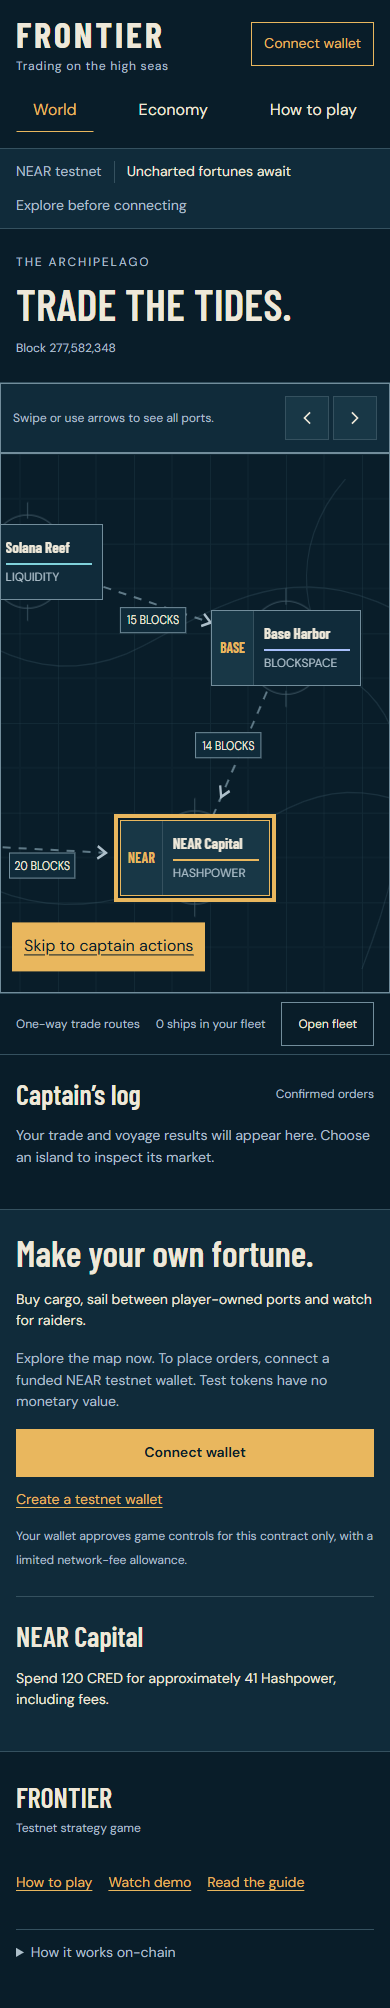
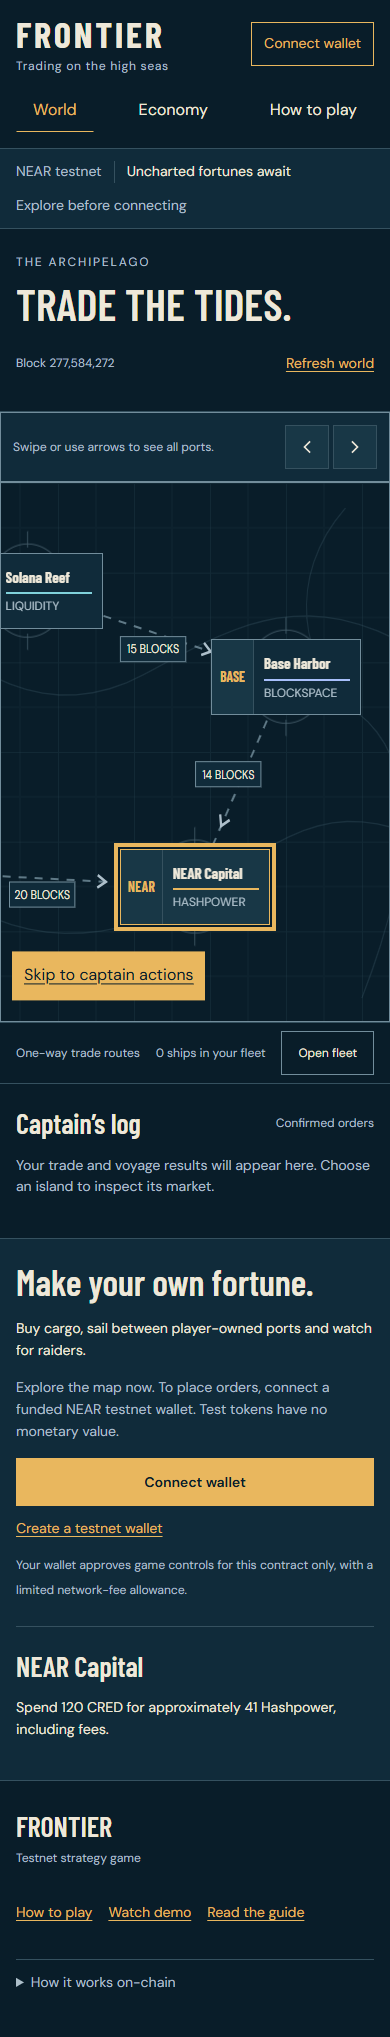
fix(ui): back off testnet polling and cache world reads

diff --git a/apps/game/app/use-game.ts b/apps/game/app/use-game.ts
@@ -3,6 +3,7 @@
 import { useCallback, useEffect, useRef, useState } from "react";
 import type { NearConnector } from "@hot-labs/near-connect";
 import { readRpc, view } from "./read-rpc";
+import { createReadCache, pollDelay } from "./read-cache";
 export { view } from "./read-rpc";
 import { arrivalMessage, WORLD, RPC, type Port, type Route, type Ship, type Player, type Order, type GameEvent, type EconomySnapshot } from "./game-state";
 
@@ -35,12 +36,16 @@ export function useGame() {
   const connectIntent = useRef(false);
   const lock = useRef(false);
   const ordersRef = useRef<Order[]>([]);
+  const reads = useRef(createReadCache());
   const slot = `frontier-orders:${WORLD}:${accountId ?? "guest"}`;
   const notify = useCallback((text: string, tone: GameEvent["tone"] = "normal", tx?: string) => {
     setMessage(text);
     setEvents(items => [{ id: crypto.randomUUID(), text, tone, tx, time: new Date().toLocaleTimeString([], { hour: "2-digit", minute: "2-digit" }) }, ...items].slice(0, 20));
   }, []);
-  const retry = useCallback(() => setRefresh(n => n + 1), []);
+  const retry = useCallback(() => {
+    reads.current.invalidate("ports"); reads.current.invalidate("economy");
+    setRefresh(n => n + 1);
+  }, []);
   const saveOrders = useCallback((next: Order[]) => {
     // Persist BEFORE signing. If storage is full or blocked, do not sail.
     localStorage.setItem(slot, JSON.stringify(next));
@@ -52,12 +57,23 @@ export function useGame() {
     let active = true;
     setReadState("loading");
     let timer: ReturnType<typeof setTimeout>;
+    let failures = 0;
+    async function portsRead() {
+      const result: Array<Port | null> = [];
+      for (const id of [1, 2, 3, 4, 5]) result.push(await view<Port | null>("get_port", { port_id: id }));
+      return result;
+    }
+    async function routesRead() {
+      const result: Array<Route | null> = [];
+      for (const id of [1, 2, 3, 4, 5]) result.push(await view<Route | null>("get_route", { route_id: id }));
+      return result;
+    }
     const poll = async () => {
       try {
         const [portList, routeList, nextEconomy, block, nextPlayer, nextShips] = await Promise.all([
-          Promise.all([1, 2, 3, 4, 5].map(id => view<Port | null>("get_port", { port_id: id }))),
-          Promise.all([1, 2, 3, 4, 5].map(id => view<Route | null>("get_route", { route_id: id }))),
-          view<EconomySnapshot>("economy_dashboard"), readRpc<{ header: { height: number } }>("block", { finality: "final" }),
+          reads.current.get("ports", 30000, portsRead),
+          reads.current.get("routes", Infinity, routesRead),
+          reads.current.get("economy", 30000, () => view<EconomySnapshot>("economy_dashboard")), readRpc<{ header: { height: number } }>("block", { finality: "final" }),
           accountId ? view<Player | null>("get_player", { account_id: accountId }) : Promise.resolve(null),
           accountId ? view<Array<[number, Ship]>>("ships_for_owner", { account_id: accountId }) : Promise.resolve([]),
         ]);
@@ -66,9 +82,10 @@ export function useGame() {
         setRoutes(routeList.filter((route): route is Route => route !== null));
         setEconomy(nextEconomy); setHeight(block.header.height); setPlayer(nextPlayer); setShips(nextShips);
         setReadState("ready");
+        failures = 0;
         setSnapshots(items => [...items.filter(item => item.epoch !== nextEconomy.epoch), nextEconomy].slice(-20));
-      } catch { if (active) setReadState("error"); }
-      if (active) timer = setTimeout(poll, 3000);
+      } catch { failures++; if (active) setReadState("error"); }
+      if (active) timer = setTimeout(poll, pollDelay(failures));
     };
     void poll();
     return () => { active = false; clearTimeout(timer); };

diff --git a/apps/game/app/read-cache.test.ts b/apps/game/app/read-cache.test.ts
@@ -1,0 +1,25 @@
+import { expect, it, vi } from "vitest";
+import { createReadCache, pollDelay } from "./read-cache";
+
+it("reuses world reads during polling but refreshes them after expiry or an action", async () => {
+  const cache = createReadCache();
+  const load = vi.fn(async () => 42);
+  await cache.get("ports", 30000, load, 1000);
+  await cache.get("ports", 30000, load, 7000);
+  expect(load).toHaveBeenCalledTimes(1);
+  await cache.get("ports", 30000, load, 31001);
+  expect(load).toHaveBeenCalledTimes(2);
+  cache.invalidate("ports");
+  await cache.get("ports", 30000, load, 31002);
+  expect(load).toHaveBeenCalledTimes(3);
+});
+it("does not cache a failed read and coalesces concurrent refreshes", async () => {
+  const cache = createReadCache();
+  const load = vi.fn().mockRejectedValueOnce(new Error("429")).mockResolvedValue(7);
+  await expect(cache.get("routes", Infinity, load)).rejects.toThrow("429");
+  expect(await Promise.all([cache.get("routes", Infinity, load), cache.get("routes", Infinity, load)])).toEqual([7, 7]);
+  expect(load).toHaveBeenCalledTimes(2);
+});
+it("backs off sustained failures and returns to six-second polling after recovery", () => {
+  expect([0,1,2,3,4,5].map(pollDelay)).toEqual([6000,12000,24000,30000,30000,30000]);
+});

diff --git a/apps/game/app/read-cache.ts b/apps/game/app/read-cache.ts
@@ -1,0 +1,18 @@
+export const pollDelay = (failures: number) => Math.min(30000, 6000 * 2 ** failures);
+
+export function createReadCache() {
+  const entries = new Map<string, { value: Promise<unknown>; expires: number }>();
+  return {
+    invalidate(key: string) { entries.delete(key); },
+    get<T>(key: string, ttl: number, load: () => Promise<T>, now = Date.now()): Promise<T> {
+      const current = entries.get(key);
+      if (current && current.expires > now) return current.value as Promise<T>;
+      const value = load().catch(error => {
+        if (entries.get(key)?.value === value) entries.delete(key);
+        throw error;
+      });
+      entries.set(key, { value, expires: now + ttl });
+      return value;
+    },
+  };
+}

diff --git a/execution/task-ledger.md b/execution/task-ledger.md
@@ -1,5 +1,10 @@
 # FRONTIER Task Ledger
 
+## Polling diagnosis, 14 November 2026 00:34 UTC
+
+Fresh-account registration succeeded, but14 concurrent reads every3 seconds exhausted FastNEAR limits. Node saw429; browser saw CORS MissingAllowOriginHeader/Failed to fetch. This is not a contract-method failure. Local fix caches immutable routes, refreshes ports/economy every30seconds or after an action, and polls captain/ships/height every6seconds with12/24/30second failure backoff. Initial port and route groups read sequentially to reduce bursts.22 tests pass including cache expiry/invalidation, failed-read eviction, concurrent deduplication and backoff. Typecheck/build verification in progress. Next push fixed polling to redesign and rerun live round with worker Laplace. No release/tag/video yet.11h26 to redesign cutoff;23h25 to submission.
+
+
 ## QA follow-up, 14 November 2026 00:32 UTC
 
 Build/typecheck pass for stable RPC status header. A forced RPC outage previously inserted a banner and produced CLS0.112 in Lighthouse; the banner is removed, with status/retry reserved in the map header. QA now asserts no map displacement on RPC failure. Latest deployed d8159f9 passes20 responsive combinations and both CI jobs;21 token contrast pairs pass. Lighthouse varies with local load and did not reach90. Fresh-account loop is blocked by intermittent public reads after registration; diagnostic work ongoing. Do not release yet.11h28 to redesign cutoff;23h27 to submission. Contracts unchanged.

diff --git a/execution/handoff.md b/execution/handoff.md
@@ -1,5 +1,10 @@
 # FRONTIER handoff
 
+## Polling diagnosis, 14 November 2026 00:34 UTC
+
+Fresh-account registration succeeded, but14 concurrent reads every3 seconds exhausted FastNEAR limits. Node saw429; browser saw CORS MissingAllowOriginHeader/Failed to fetch. This is not a contract-method failure. Local fix caches immutable routes, refreshes ports/economy every30seconds or after an action, and polls captain/ships/height every6seconds with12/24/30second failure backoff. Initial port and route groups read sequentially to reduce bursts.22 tests pass including cache expiry/invalidation, failed-read eviction, concurrent deduplication and backoff. Typecheck/build verification in progress. Next push fixed polling to redesign and rerun live round with worker Laplace. No release/tag/video yet.11h26 to redesign cutoff;23h25 to submission.
+
+
 ## QA follow-up, 14 November 2026 00:32 UTC
 
 Build/typecheck pass for stable RPC status header. A forced RPC outage previously inserted a banner and produced CLS0.112 in Lighthouse; the banner is removed, with status/retry reserved in the map header. QA now asserts no map displacement on RPC failure. Latest deployed d8159f9 passes20 responsive combinations and both CI jobs;21 token contrast pairs pass. Lighthouse varies with local load and did not reach90. Fresh-account loop is blocked by intermittent public reads after registration; diagnostic work ongoing. Do not release yet.11h28 to redesign cutoff;23h27 to submission. Contracts unchanged.
